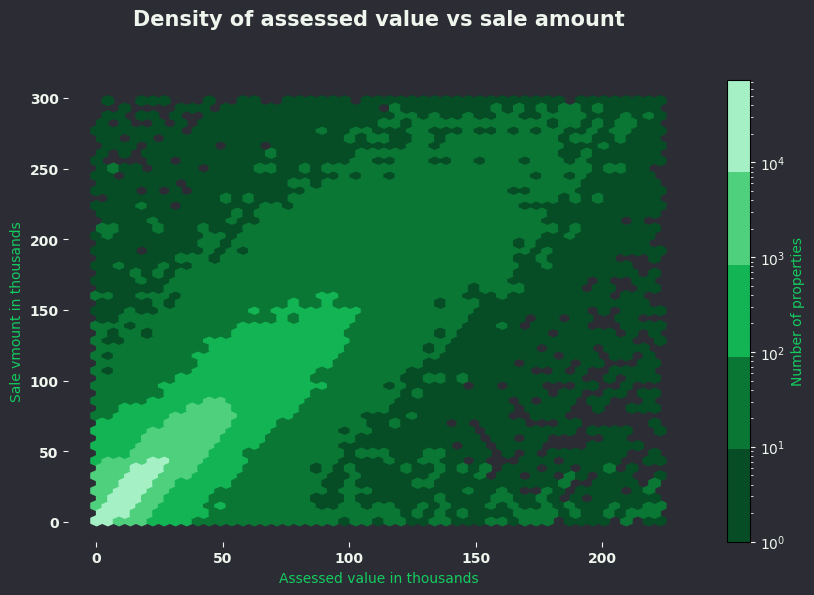
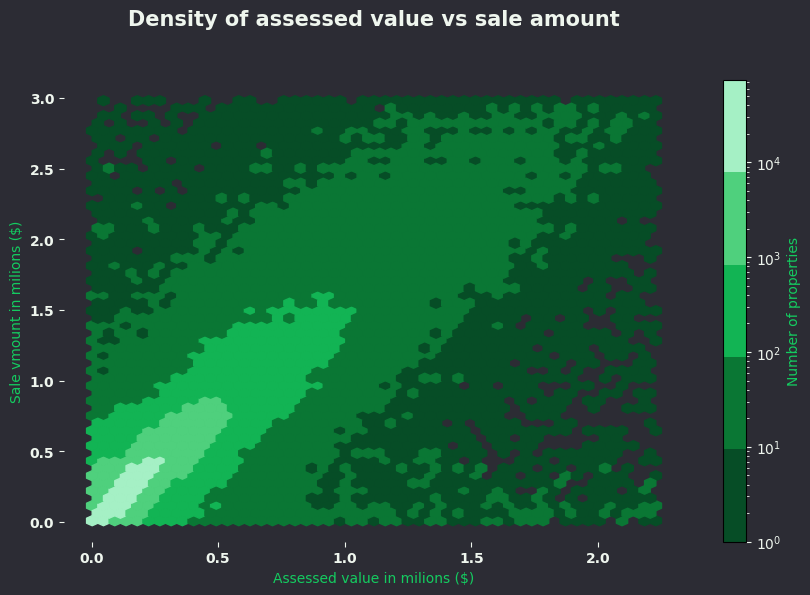
Corrected values on one graph

diff --git a/projects/real-estate-sales-analysis/src/plots.py b/projects/real-estate-sales-analysis/src/plots.py
@@ -86,15 +86,15 @@ sale_vs_assessed = pd.read_csv("../data/formated/sale_vs_assessed.csv")
 
 plt.figure(figsize=(10, 6))
 plt.hexbin(
-    sale_vs_assessed['Assessed Value'] / 10000,
-    sale_vs_assessed['Sale Amount'] / 10000,
+    sale_vs_assessed['Assessed Value'] / 1000000,
+    sale_vs_assessed['Sale Amount'] / 1000000,
     gridsize=50,
     cmap=cmap,
     bins='log'
 )
 plt.colorbar(label='Number of properties')
-plt.xlabel('Assessed value in thousands')
-plt.ylabel('Sale vmount in thousands')
+plt.xlabel('Assessed value in milions ($)')
+plt.ylabel('Sale vmount in milions ($)')
 plt.title('Density of assessed value vs sale amount', fontsize=15, y=1.1, fontweight="bold")
 plt.xticks(fontweight="bold")
 plt.yticks(fontweight="bold")
